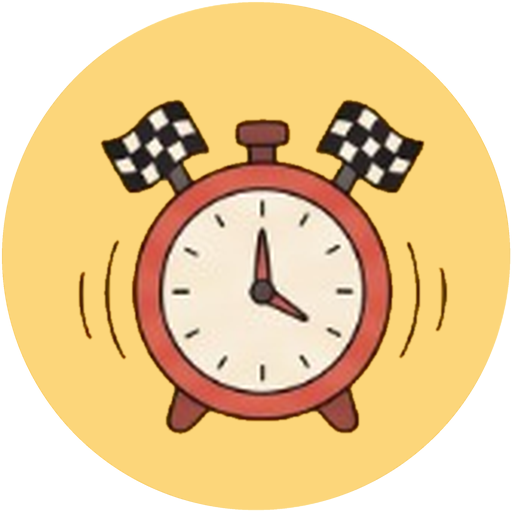
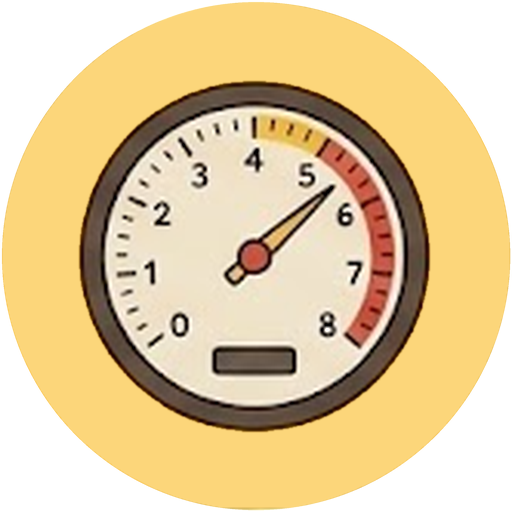
feat(theme-racing): install Turbo Speedway batch 6 stickers and theme wiring

Changed region(s): [[0.1562, 0.1562, 0.875, 0.8438]]

diff --git a/src/data/themedIconsData.ts b/src/data/themedIconsData.ts
@@ -4015,6 +4015,127 @@ export const RACING_SPEEDWAY_ICONS: ThemedIconItem[] = [
     themeCategory: 'racing',
     keywords: ['shopping', 'cart', 'trolley', 'groceries', 'pushcart', 'pit', 'store', 'racing'],
   },
+  // Batch 6 Travel, Destinations, Living & Tools
+  {
+    id: 'racing_adventure_restaurant',
+    value: '/assets/stickers/racing_adventure_restaurant.png',
+    label: 'Speedway Pit Diner Booth Table',
+    shortLabel: 'Speedway Diner',
+    themeCategory: 'racing',
+    keywords: ['restaurant', 'dining', 'food', 'meal', 'table', 'booth', 'dinner', 'speedway', 'racing'],
+  },
+  {
+    id: 'racing_adventure_museum_visit',
+    value: '/assets/stickers/racing_adventure_museum_visit.png',
+    label: 'Vintage Speedster Hall Museum Exhibit',
+    shortLabel: 'Speedster Museum',
+    themeCategory: 'racing',
+    keywords: ['museum', 'gallery', 'car', 'vintage', 'speedster', 'visit', 'history', 'racing'],
+  },
+  {
+    id: 'racing_adventure_bowling_alley',
+    value: '/assets/stickers/racing_adventure_bowling_alley.png',
+    label: 'Strike Bowling Lane Speedway',
+    shortLabel: 'Speed Bowling',
+    themeCategory: 'racing',
+    keywords: ['bowling', 'pins', 'ball', 'game', 'play', 'strike', 'lane', 'racing'],
+  },
+  {
+    id: 'racing_airplane_flight',
+    value: '/assets/stickers/racing_airplane_flight.png',
+    label: 'Jet Speed Airliner Flight',
+    shortLabel: 'Jet Flight',
+    themeCategory: 'racing',
+    keywords: ['flight', 'travel', 'plane', 'jet', 'airplane', 'flying', 'trip', 'racing'],
+  },
+  {
+    id: 'racing_boarding_ticket',
+    value: '/assets/stickers/racing_boarding_ticket.png',
+    label: 'Speedway Grandstand Pass Ticket',
+    shortLabel: 'Grandstand Pass',
+    themeCategory: 'racing',
+    keywords: ['ticket', 'boarding', 'pass', 'grandstand', 'speedway', 'travel', 'racing'],
+  },
+  {
+    id: 'racing_passport_book',
+    value: '/assets/stickers/racing_passport_book.png',
+    label: 'Driver Racing License Passport Booklet',
+    shortLabel: 'Racing Passport',
+    themeCategory: 'racing',
+    keywords: ['passport', 'travel', 'book', 'license', 'driver', 'trip', 'pass', 'racing'],
+  },
+  {
+    id: 'racing_tablet_ipad',
+    value: '/assets/stickers/racing_tablet_ipad.png',
+    label: 'Telemetry Track Screen Tablet',
+    shortLabel: 'Telemetry Tablet',
+    themeCategory: 'racing',
+    keywords: ['tablet', 'ipad', 'telemetry', 'screen', 'device', 'track', 'digital', 'racing'],
+  },
+  {
+    id: 'racing_potted_plant',
+    value: '/assets/stickers/racing_potted_plant.png',
+    label: 'Piston Mug Succulent Plant',
+    shortLabel: 'Piston Plant',
+    themeCategory: 'racing',
+    keywords: ['plant', 'potted', 'succulent', 'piston', 'mug', 'nature', 'green', 'racing'],
+  },
+  {
+    id: 'racing_wall_clock',
+    value: '/assets/stickers/racing_wall_clock.png',
+    label: 'Tachometer Dial Wall Clock',
+    shortLabel: 'Tachometer Clock',
+    themeCategory: 'racing',
+    keywords: ['clock', 'time', 'hour', 'minute', 'schedule', 'tachometer', 'gauge', 'racing'],
+  },
+  {
+    id: 'racing_circle_carpet',
+    value: '/assets/stickers/racing_circle_carpet.png',
+    label: 'Tire Rim Round Floor Rug',
+    shortLabel: 'Tire Rim Rug',
+    themeCategory: 'racing',
+    keywords: ['carpet', 'rug', 'circle', 'meeting', 'tire', 'rim', 'wheel', 'floor', 'racing'],
+  },
+  {
+    id: 'racing_locker_schedule',
+    value: '/assets/stickers/racing_locker_schedule.png',
+    label: 'Hallway Racing Team Locker',
+    shortLabel: 'Racing Locker',
+    themeCategory: 'racing',
+    keywords: ['locker', 'school', 'storage', 'cabinet', 'team', 'pit', 'lock', 'racing'],
+  },
+  {
+    id: 'racing_bone_treat',
+    value: '/assets/stickers/racing_bone_treat.png',
+    label: 'Checkered Ribbon Bone Biscuit',
+    shortLabel: 'Checkered Bone',
+    themeCategory: 'racing',
+    keywords: ['bone', 'treat', 'dog', 'pet', 'snack', 'biscuit', 'ribbon', 'racing'],
+  },
+  {
+    id: 'racing_paw_print',
+    value: '/assets/stickers/racing_paw_print.png',
+    label: 'Tire Tread Paw Print',
+    shortLabel: 'Tire Tread Paw',
+    themeCategory: 'racing',
+    keywords: ['paw', 'print', 'dog', 'puppy', 'animal', 'footprint', 'tread', 'racing'],
+  },
+  {
+    id: 'racing_ocean_wave',
+    value: '/assets/stickers/racing_ocean_wave.png',
+    label: 'Sea Spray Speed Ocean Wave',
+    shortLabel: 'Speed Ocean Wave',
+    themeCategory: 'racing',
+    keywords: ['ocean', 'wave', 'sea', 'water', 'speed', 'spray', 'curl', 'racing'],
+  },
+  {
+    id: 'racing_birthday_cake',
+    value: '/assets/stickers/racing_birthday_cake.png',
+    label: 'Checkered Victory Birthday Cake',
+    shortLabel: 'Victory Cake',
+    themeCategory: 'racing',
+    keywords: ['birthday', 'cake', 'party', 'celebrate', 'victory', 'candles', 'sweet', 'racing'],
+  },
 ];
 
 export function getThemedIcons(themeCategoryOrId?: string): ThemedIconItem[] {

diff --git a/src/components/icons/JournalStickers.tsx b/src/components/icons/JournalStickers.tsx
@@ -2555,6 +2555,37 @@ export const RACING_STICKER_SWAPS: Record<string, string> = {
 
   '/assets/stickers/shopping_cart.png': '/assets/stickers/racing_shopping_cart.png',
   '/assets/stickers/cart.png': '/assets/stickers/racing_shopping_cart.png',
+
+  // Batch 6 Travel, Destinations, Living & Tools Swaps
+  '/assets/stickers/adventure_restaurant.png': '/assets/stickers/racing_adventure_restaurant.png',
+  '/assets/stickers/restaurant_adventure.png': '/assets/stickers/racing_adventure_restaurant.png',
+  '/assets/stickers/dining_table_booth.png': '/assets/stickers/racing_adventure_restaurant.png',
+  '/assets/stickers/adventure_museum_visit.png': '/assets/stickers/racing_adventure_museum_visit.png',
+  '/assets/stickers/museum_visit.png': '/assets/stickers/racing_adventure_museum_visit.png',
+  '/assets/stickers/adventure_bowling_alley.png': '/assets/stickers/racing_adventure_bowling_alley.png',
+  '/assets/stickers/bowling_alley.png': '/assets/stickers/racing_adventure_bowling_alley.png',
+  '/assets/stickers/bowling_pins_strike.png': '/assets/stickers/racing_adventure_bowling_alley.png',
+  '/assets/stickers/airplane_flight.png': '/assets/stickers/racing_airplane_flight.png',
+  '/assets/stickers/flight.png': '/assets/stickers/racing_airplane_flight.png',
+  '/assets/stickers/boarding_ticket.png': '/assets/stickers/racing_boarding_ticket.png',
+  '/assets/stickers/passport_book.png': '/assets/stickers/racing_passport_book.png',
+  '/assets/stickers/tablet_ipad.png': '/assets/stickers/racing_tablet_ipad.png',
+  '/assets/stickers/clipboard_shutdown.png': '/assets/stickers/racing_tablet_ipad.png',
+  '/assets/stickers/potted_plant.png': '/assets/stickers/racing_potted_plant.png',
+  '/assets/stickers/wall_clock.png': '/assets/stickers/racing_wall_clock.png',
+  '/assets/stickers/timer_clock.png': '/assets/stickers/racing_wall_clock.png',
+  '/assets/stickers/circle_carpet.png': '/assets/stickers/racing_circle_carpet.png',
+  '/assets/stickers/sensory_social_masking.png': '/assets/stickers/racing_circle_carpet.png',
+  '/assets/stickers/story_plans_change.png': '/assets/stickers/racing_circle_carpet.png',
+  '/assets/stickers/plans_changed.png': '/assets/stickers/racing_circle_carpet.png',
+  '/assets/stickers/locker_schedule.png': '/assets/stickers/racing_locker_schedule.png',
+  '/assets/stickers/bone_treat.png': '/assets/stickers/racing_bone_treat.png',
+  '/assets/stickers/story_sharing.png': '/assets/stickers/racing_bone_treat.png',
+  '/assets/stickers/sharing_toys.png': '/assets/stickers/racing_bone_treat.png',
+  '/assets/stickers/paw_print.png': '/assets/stickers/racing_paw_print.png',
+  '/assets/stickers/ocean_wave.png': '/assets/stickers/racing_ocean_wave.png',
+  '/assets/stickers/story_birthday.png': '/assets/stickers/racing_birthday_cake.png',
+  '/assets/stickers/birthday_cake_slice.png': '/assets/stickers/racing_birthday_cake.png',
 };
 
 /**
